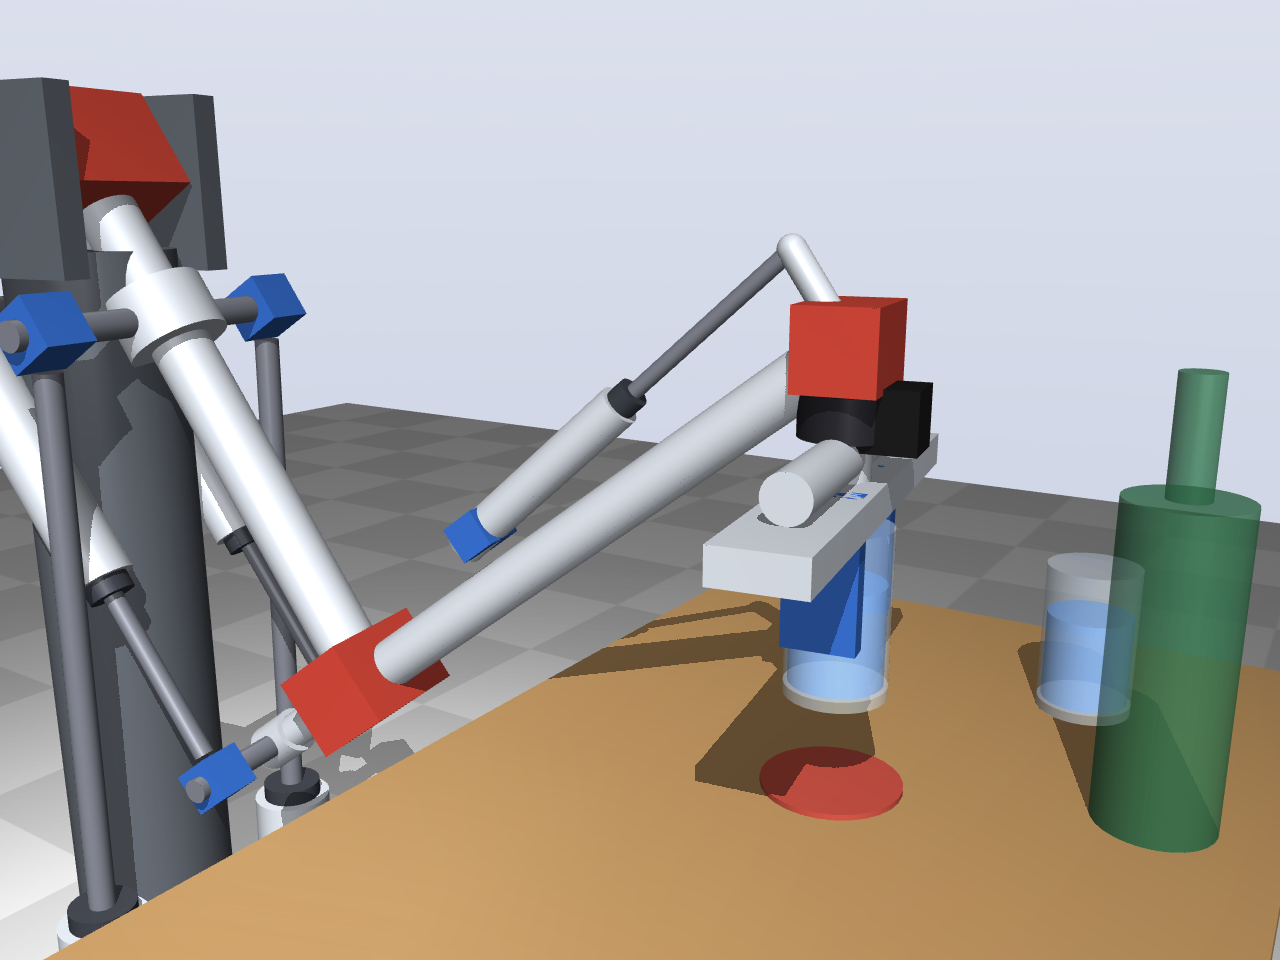
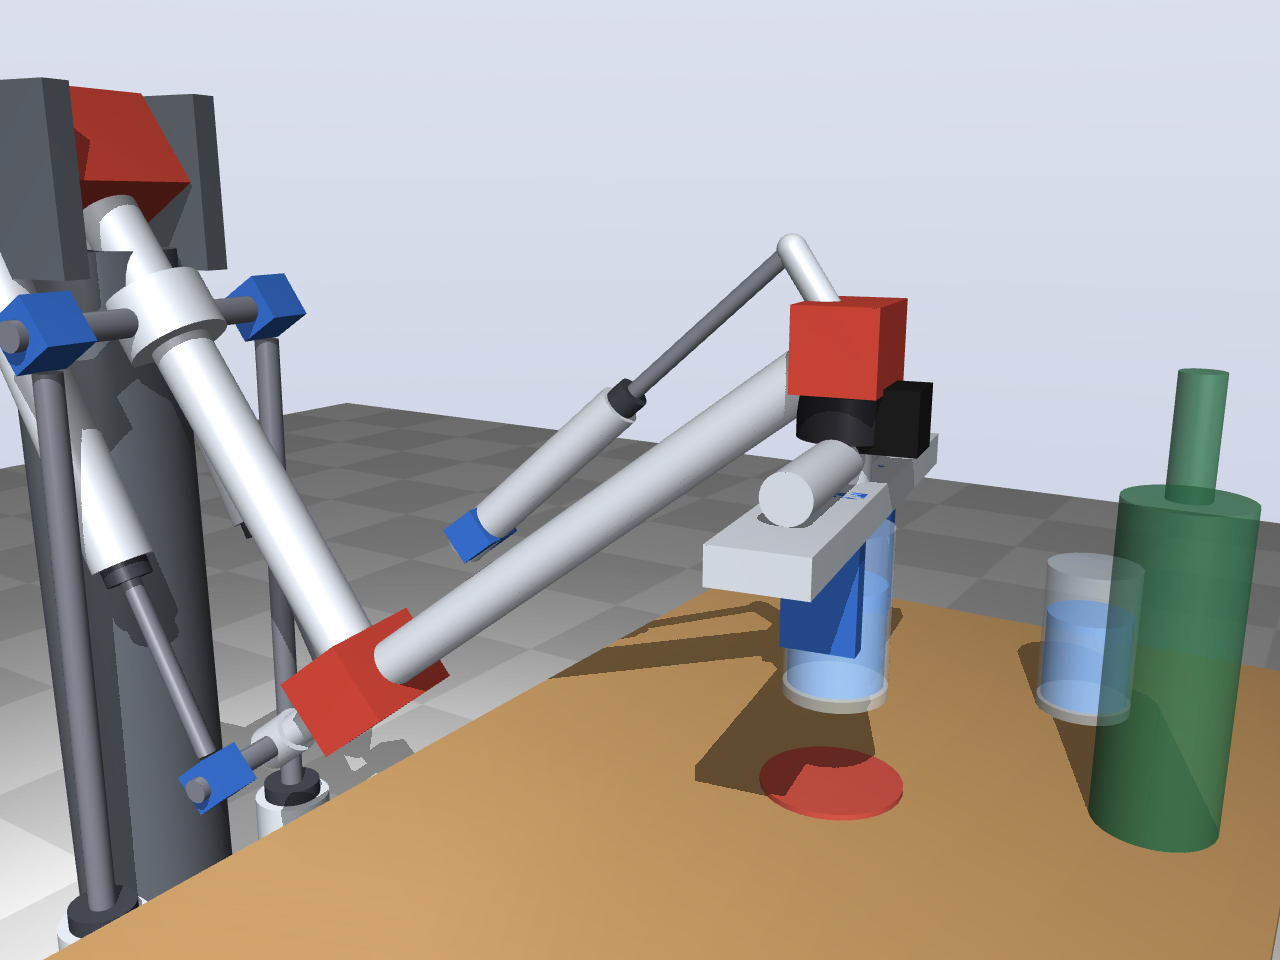
full-arm: elbow-down triceps cylinders 60 mm from the upper arm (render)

diff --git a/full-arm/elbow.py b/full-arm/elbow.py
@@ -34,7 +34,7 @@ LAYOUTS = {
     "triceps": dict(low_along=0.02, low_side=0.08, low_up=0.13, hub_along=-0.10, hub_side=0.08),
     # arm turned over, like a human arm: upper arm hanging down, elbow below the shoulder,
     # cylinders behind the upper arm pushing the lever behind the elbow to lift
-    "triceps_down": dict(low_along=0.06, low_side=0.08, low_up=-0.13, hub_along=-0.12, hub_side=0.08, down=True),
+    "triceps_down": dict(low_along=0.06, low_side=0.08, low_up=-0.06, hub_along=-0.12, hub_side=0.08, down=True),
 }
 DOWN = False
 LAYOUT = "biceps"

diff --git a/full-arm/README.md b/full-arm/README.md
@@ -135,7 +135,7 @@ the gripper's yaw motor keeps the jaws square to the arm). Shoulder pitch 64°, 
 ![Glass, side](out/render_glass_side.png)
 
 The same with the upper arm hanging down (shoulder at 1.15 m, elbow cylinders behind the
-upper arm pushing the lever behind the elbow). Render only; the shoulder cylinders are
+upper arm, 60 mm from it, pushing the lever behind the elbow). Render only; the shoulder cylinders are
 still drawn in the test 2 layout, which does not suit this posture.
 
 ![Glass, upper arm down](out/render_glass_triceps_down_oblique.png)
